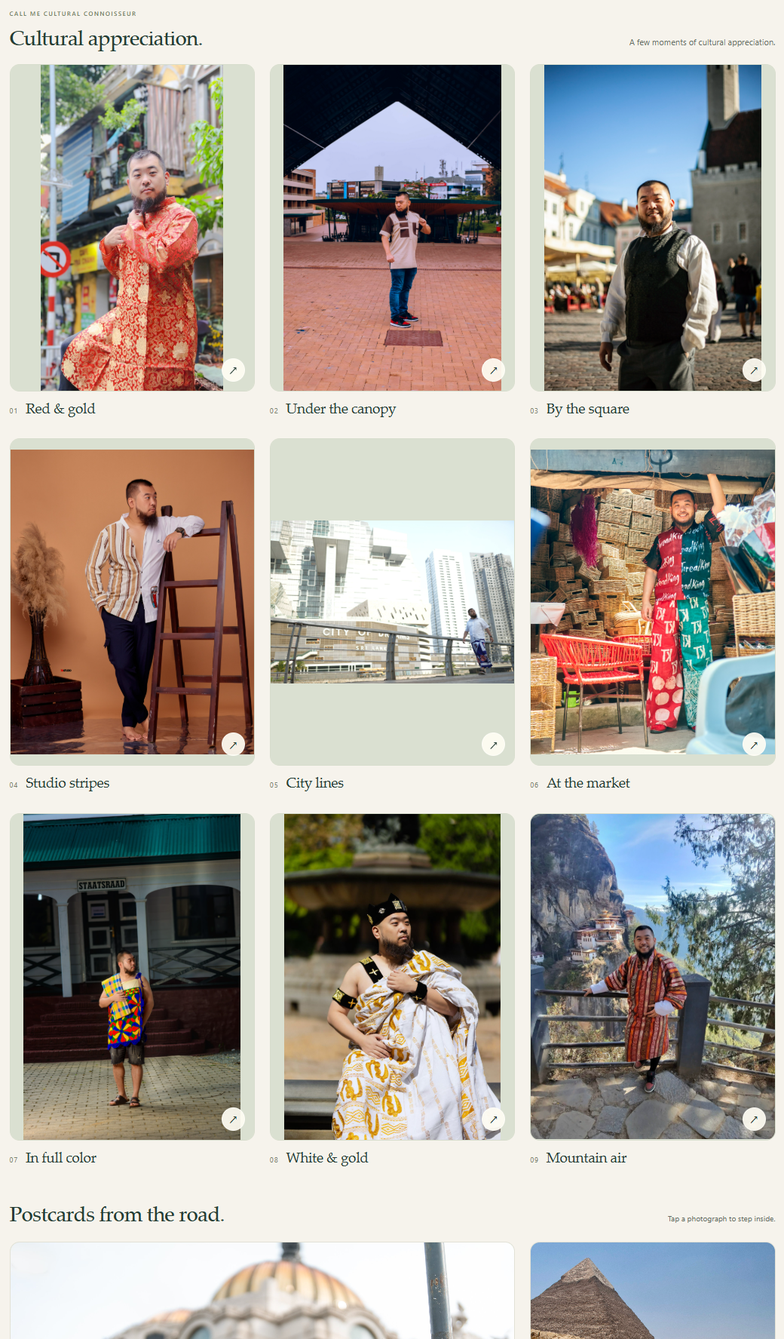
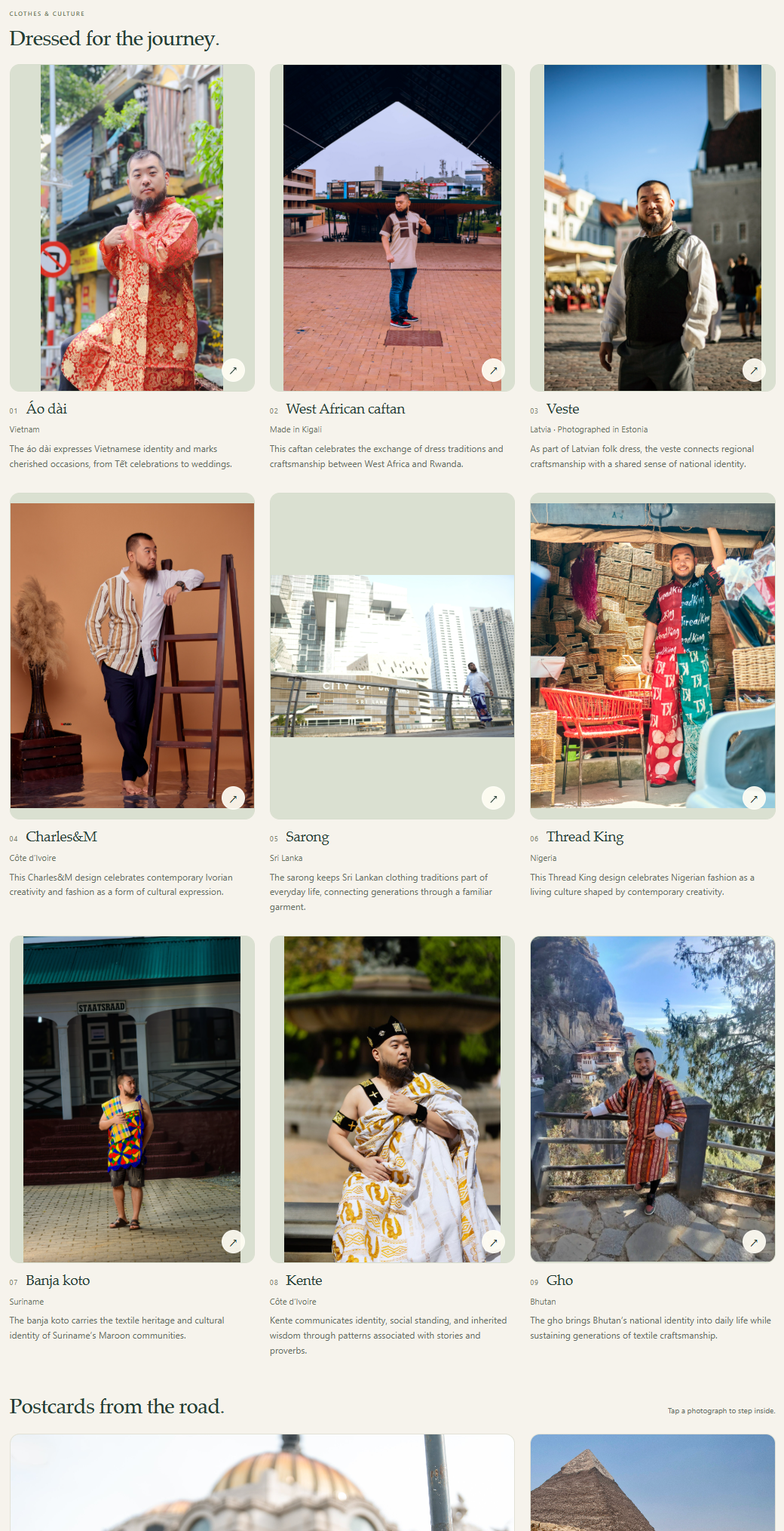
Add approved clothing captions and Dressed for the journey heading

diff --git a/index.html b/index.html
@@ -100,53 +100,53 @@
 </div>
 <div class="latest-stops"><span class="eyebrow">Latest additions</span><div id="latest-stops-list"><span>Estonia</span><span>Latvia</span><span>Lithuania</span></div><span class="stops-date" id="latest-stops-date">August 2026</span></div>
 <section class="culture-section" id="culture" aria-labelledby="culture-title">
-<div class="culture-heading"><div><p class="eyebrow" id="culture-eyebrow">Call me cultural connoisseur</p><h3 id="culture-title">Cultural appreciation.</h3></div><p id="culture-description">A few moments of cultural appreciation.</p></div>
+<div class="culture-heading"><div><p class="eyebrow" id="culture-eyebrow">Clothes &amp; culture</p><h3 id="culture-title">Dressed for the journey.</h3></div><p id="culture-description" hidden></p></div>
 <div class="culture-grid" id="culture-photos">
 <figure class="culture-card">
-<a class="culture-open" href="assets/culture/cultural-appreciation-01.jpg" rel="noopener noreferrer" target="_blank" aria-label="Open Red &amp; gold">
-<span class="culture-image image-frame"><span aria-hidden="true" class="image-placeholder">01</span><img alt="JiaJie in a red and gold embroidered tunic on a leafy street." decoding="async" height="2560" loading="lazy" src="assets/culture/cultural-appreciation-01.jpg" width="1437"/><span aria-hidden="true" class="photo-expand">↗</span></span>
-<span class="culture-caption"><span class="culture-index">01</span><strong>Red &amp; gold</strong></span>
-</a></figure>
+<a class="culture-open" href="assets/culture/cultural-appreciation-01.jpg" rel="noopener noreferrer" target="_blank" aria-label="Open Áo dài · Vietnam">
+<span class="culture-image image-frame"><span aria-hidden="true" class="image-placeholder">01</span><img alt="JiaJie in a red and gold áo dài on a leafy street." decoding="async" height="2560" loading="lazy" src="assets/culture/cultural-appreciation-01.jpg" width="1437"/><span aria-hidden="true" class="photo-expand">↗</span></span>
+<span class="culture-caption"><span class="culture-index" aria-hidden="true">01</span><strong>Áo dài</strong></span>
+</a><figcaption class="culture-details"><p class="culture-location">Vietnam</p><p class="culture-description">The áo dài expresses Vietnamese identity and marks cherished occasions, from Tết celebrations to weddings.</p></figcaption></figure>
 <figure class="culture-card">
-<a class="culture-open" href="assets/culture/cultural-appreciation-02.jpg" rel="noopener noreferrer" target="_blank" aria-label="Open Under the canopy">
-<span class="culture-image image-frame"><span aria-hidden="true" class="image-placeholder">02</span><img alt="JiaJie in a geometric-patterned shirt beneath a large canopy in an open square." decoding="async" height="3746" loading="lazy" src="assets/culture/cultural-appreciation-02.jpg" width="2500"/><span aria-hidden="true" class="photo-expand">↗</span></span>
-<span class="culture-caption"><span class="culture-index">02</span><strong>Under the canopy</strong></span>
-</a></figure>
+<a class="culture-open" href="assets/culture/cultural-appreciation-02.jpg" rel="noopener noreferrer" target="_blank" aria-label="Open West African caftan · Made in Kigali">
+<span class="culture-image image-frame"><span aria-hidden="true" class="image-placeholder">02</span><img alt="JiaJie in a geometric-patterned West African caftan beneath a large canopy in an open square." decoding="async" height="3746" loading="lazy" src="assets/culture/cultural-appreciation-02.jpg" width="2500"/><span aria-hidden="true" class="photo-expand">↗</span></span>
+<span class="culture-caption"><span class="culture-index" aria-hidden="true">02</span><strong>West African caftan</strong></span>
+</a><figcaption class="culture-details"><p class="culture-location">Made in Kigali</p><p class="culture-description">This caftan celebrates the exchange of dress traditions and craftsmanship between West Africa and Rwanda.</p></figcaption></figure>
 <figure class="culture-card">
-<a class="culture-open" href="assets/culture/cultural-appreciation-03.jpg" rel="noopener noreferrer" target="_blank" aria-label="Open By the square">
-<span class="culture-image image-frame"><span aria-hidden="true" class="image-placeholder">03</span><img alt="JiaJie in a dark waistcoat and light shirt in a sunlit cobbled square." decoding="async" height="3750" loading="lazy" src="assets/culture/cultural-appreciation-03.jpg" width="2500"/><span aria-hidden="true" class="photo-expand">↗</span></span>
-<span class="culture-caption"><span class="culture-index">03</span><strong>By the square</strong></span>
-</a></figure>
+<a class="culture-open" href="assets/culture/cultural-appreciation-03.jpg" rel="noopener noreferrer" target="_blank" aria-label="Open Veste · Latvia · Photographed in Estonia">
+<span class="culture-image image-frame"><span aria-hidden="true" class="image-placeholder">03</span><img alt="JiaJie in a dark Latvian veste and light shirt in a sunlit cobbled square in Estonia." decoding="async" height="3750" loading="lazy" src="assets/culture/cultural-appreciation-03.jpg" width="2500"/><span aria-hidden="true" class="photo-expand">↗</span></span>
+<span class="culture-caption"><span class="culture-index" aria-hidden="true">03</span><strong>Veste</strong></span>
+</a><figcaption class="culture-details"><p class="culture-location">Latvia · Photographed in Estonia</p><p class="culture-description">As part of Latvian folk dress, the veste connects regional craftsmanship with a shared sense of national identity.</p></figcaption></figure>
 <figure class="culture-card">
-<a class="culture-open" href="assets/culture/cultural-appreciation-04.jpg" rel="noopener noreferrer" target="_blank" aria-label="Open Studio stripes">
-<span class="culture-image image-frame"><span aria-hidden="true" class="image-placeholder">04</span><img alt="JiaJie in a striped waistcoat over a white shirt, leaning on a wooden ladder in a studio." decoding="async" height="3125" loading="lazy" src="assets/culture/cultural-appreciation-04.jpg" width="2500"/><span aria-hidden="true" class="photo-expand">↗</span></span>
-<span class="culture-caption"><span class="culture-index">04</span><strong>Studio stripes</strong></span>
-</a></figure>
+<a class="culture-open" href="assets/culture/cultural-appreciation-04.jpg" rel="noopener noreferrer" target="_blank" aria-label="Open Charles&amp;M · Côte d’Ivoire">
+<span class="culture-image image-frame"><span aria-hidden="true" class="image-placeholder">04</span><img alt="JiaJie in a white and striped Charles&amp;M outfit, leaning on a wooden ladder in a studio." decoding="async" height="3125" loading="lazy" src="assets/culture/cultural-appreciation-04.jpg" width="2500"/><span aria-hidden="true" class="photo-expand">↗</span></span>
+<span class="culture-caption"><span class="culture-index" aria-hidden="true">04</span><strong>Charles&amp;M</strong></span>
+</a><figcaption class="culture-details"><p class="culture-location">Côte d’Ivoire</p><p class="culture-description">This Charles&amp;M design celebrates contemporary Ivorian creativity and fashion as a form of cultural expression.</p></figcaption></figure>
 <figure class="culture-card">
-<a class="culture-open" href="assets/culture/cultural-appreciation-05.jpg" rel="noopener noreferrer" target="_blank" aria-label="Open City lines">
-<span class="culture-image image-frame"><span aria-hidden="true" class="image-placeholder">05</span><img alt="JiaJie in a white shirt and patterned trousers beside a railing, with contemporary buildings behind him." decoding="async" height="1667" loading="lazy" src="assets/culture/cultural-appreciation-05.jpg" width="2500"/><span aria-hidden="true" class="photo-expand">↗</span></span>
-<span class="culture-caption"><span class="culture-index">05</span><strong>City lines</strong></span>
-</a></figure>
+<a class="culture-open" href="assets/culture/cultural-appreciation-05.jpg" rel="noopener noreferrer" target="_blank" aria-label="Open Sarong · Sri Lanka">
+<span class="culture-image image-frame"><span aria-hidden="true" class="image-placeholder">05</span><img alt="JiaJie in a white shirt and patterned sarong beside a railing, with contemporary buildings behind him." decoding="async" height="1667" loading="lazy" src="assets/culture/cultural-appreciation-05.jpg" width="2500"/><span aria-hidden="true" class="photo-expand">↗</span></span>
+<span class="culture-caption"><span class="culture-index" aria-hidden="true">05</span><strong>Sarong</strong></span>
+</a><figcaption class="culture-details"><p class="culture-location">Sri Lanka</p><p class="culture-description">The sarong keeps Sri Lankan clothing traditions part of everyday life, connecting generations through a familiar garment.</p></figcaption></figure>
 <figure class="culture-card">
-<a class="culture-open" href="assets/culture/cultural-appreciation-06.jpg" rel="noopener noreferrer" target="_blank" aria-label="Open At the market">
-<span class="culture-image image-frame"><span aria-hidden="true" class="image-placeholder">06</span><img alt="JiaJie in a colorful matching shirt and trousers at a stall filled with woven baskets." decoding="async" height="3125" loading="lazy" src="assets/culture/cultural-appreciation-06.jpg" width="2500"/><span aria-hidden="true" class="photo-expand">↗</span></span>
-<span class="culture-caption"><span class="culture-index">06</span><strong>At the market</strong></span>
-</a></figure>
+<a class="culture-open" href="assets/culture/cultural-appreciation-06.jpg" rel="noopener noreferrer" target="_blank" aria-label="Open Thread King · Nigeria">
+<span class="culture-image image-frame"><span aria-hidden="true" class="image-placeholder">06</span><img alt="JiaJie in a colorful matching Thread King shirt and trousers at a stall filled with woven baskets." decoding="async" height="3125" loading="lazy" src="assets/culture/cultural-appreciation-06.jpg" width="2500"/><span aria-hidden="true" class="photo-expand">↗</span></span>
+<span class="culture-caption"><span class="culture-index" aria-hidden="true">06</span><strong>Thread King</strong></span>
+</a><figcaption class="culture-details"><p class="culture-location">Nigeria</p><p class="culture-description">This Thread King design celebrates Nigerian fashion as a living culture shaped by contemporary creativity.</p></figcaption></figure>
 <figure class="culture-card">
-<a class="culture-open" href="assets/culture/cultural-appreciation-07.jpg" rel="noopener noreferrer" target="_blank" aria-label="Open In full color">
-<span class="culture-image image-frame"><span aria-hidden="true" class="image-placeholder">07</span><img alt="JiaJie in a bright geometric-patterned sleeveless top beside the steps of a building." decoding="async" height="3750" loading="lazy" src="assets/culture/cultural-appreciation-07.jpg" width="2500"/><span aria-hidden="true" class="photo-expand">↗</span></span>
-<span class="culture-caption"><span class="culture-index">07</span><strong>In full color</strong></span>
-</a></figure>
+<a class="culture-open" href="assets/culture/cultural-appreciation-07.jpg" rel="noopener noreferrer" target="_blank" aria-label="Open Banja koto · Suriname">
+<span class="culture-image image-frame"><span aria-hidden="true" class="image-placeholder">07</span><img alt="JiaJie in a bright geometric-patterned banja koto beside the steps of a building." decoding="async" height="3750" loading="lazy" src="assets/culture/cultural-appreciation-07.jpg" width="2500"/><span aria-hidden="true" class="photo-expand">↗</span></span>
+<span class="culture-caption"><span class="culture-index" aria-hidden="true">07</span><strong>Banja koto</strong></span>
+</a><figcaption class="culture-details"><p class="culture-location">Suriname</p><p class="culture-description">The banja koto carries the textile heritage and cultural identity of Suriname’s Maroon communities.</p></figcaption></figure>
 <figure class="culture-card">
-<a class="culture-open" href="assets/culture/cultural-appreciation-08.jpg" rel="noopener noreferrer" target="_blank" aria-label="Open White &amp; gold">
-<span class="culture-image image-frame"><span aria-hidden="true" class="image-placeholder">08</span><img alt="JiaJie in a white and gold draped outfit and black hat in a garden." decoding="async" height="1536" loading="lazy" src="assets/culture/cultural-appreciation-08.jpg" width="1024"/><span aria-hidden="true" class="photo-expand">↗</span></span>
-<span class="culture-caption"><span class="culture-index">08</span><strong>White &amp; gold</strong></span>
-</a></figure>
+<a class="culture-open" href="assets/culture/cultural-appreciation-08.jpg" rel="noopener noreferrer" target="_blank" aria-label="Open Kente · Côte d’Ivoire">
+<span class="culture-image image-frame"><span aria-hidden="true" class="image-placeholder">08</span><img alt="JiaJie in white and gold kente cloth and a black hat in a garden." decoding="async" height="1536" loading="lazy" src="assets/culture/cultural-appreciation-08.jpg" width="1024"/><span aria-hidden="true" class="photo-expand">↗</span></span>
+<span class="culture-caption"><span class="culture-index" aria-hidden="true">08</span><strong>Kente</strong></span>
+</a><figcaption class="culture-details"><p class="culture-location">Côte d’Ivoire</p><p class="culture-description">Kente communicates identity, social standing, and inherited wisdom through patterns associated with stories and proverbs.</p></figcaption></figure>
 <figure class="culture-card">
-<a class="culture-open" href="assets/culture/cultural-appreciation-09.jpg" rel="noopener noreferrer" target="_blank" aria-label="Open Mountain air">
-<span class="culture-image image-frame"><span aria-hidden="true" class="image-placeholder">09</span><img alt="JiaJie in a striped robe by a mountain overlook, with buildings on the cliff behind him." decoding="async" height="3334" loading="lazy" src="assets/culture/cultural-appreciation-09.jpg" width="2500"/><span aria-hidden="true" class="photo-expand">↗</span></span>
-<span class="culture-caption"><span class="culture-index">09</span><strong>Mountain air</strong></span>
-</a></figure>
+<a class="culture-open" href="assets/culture/cultural-appreciation-09.jpg" rel="noopener noreferrer" target="_blank" aria-label="Open Gho · Bhutan">
+<span class="culture-image image-frame"><span aria-hidden="true" class="image-placeholder">09</span><img alt="JiaJie in a striped gho by a mountain overlook in Bhutan, with buildings on the cliff behind him." decoding="async" height="3334" loading="lazy" src="assets/culture/cultural-appreciation-09.jpg" width="2500"/><span aria-hidden="true" class="photo-expand">↗</span></span>
+<span class="culture-caption"><span class="culture-index" aria-hidden="true">09</span><strong>Gho</strong></span>
+</a><figcaption class="culture-details"><p class="culture-location">Bhutan</p><p class="culture-description">The gho brings Bhutan’s national identity into daily life while sustaining generations of textile craftsmanship.</p></figcaption></figure>
 </div></section>
 <div class="postcards-heading"><h3>Postcards from the road.</h3><span>Tap a photograph to step inside.</span></div>
 <div class="postcards-grid" id="travel-photos"><figure class="postcard postcard-wide"><a class="postcard-open" href="assets/postcards/mexico-city.jpg" rel="noopener noreferrer" target="_blank"><span class="postcard-image image-frame"><span aria-hidden="true" class="image-placeholder">Mexico City</span><img alt="Travel portrait in Mexico City, with the Palacio de Bellas Artes in the background." decoding="async" height="667" loading="lazy" src="assets/postcards/mexico-city.jpg" width="1000"/><span aria-hidden="true" class="photo-expand">↗</span></span><span class="postcard-caption"><strong>Mexico City, Mexico</strong><span>December 2024</span></span></a><figcaption class="photo-credit">Photo: <a href="https://www.instagram.com/fotografia_beauty_art/" rel="noopener noreferrer" target="_blank">@fotografia_beauty_art</a></figcaption></figure><figure class="postcard"><a class="postcard-open" href="assets/postcards/cairo.jpg" rel="noopener noreferrer" target="_blank"><span class="postcard-image image-frame"><span aria-hidden="true" class="image-placeholder">Cairo</span><img alt="Travel photograph near a pyramid in Egypt." decoding="async" height="1000" loading="lazy" src="assets/postcards/cairo.jpg" width="667"/><span aria-hidden="true" class="photo-expand">↗</span></span><span class="postcard-caption"><strong>Cairo, Egypt</strong><span>September 2024</span></span></a></figure><figure class="postcard"><a class="postcard-open" href="assets/postcards/paris.jpg" rel="noopener noreferrer" target="_blank"><span class="postcard-image image-frame"><span aria-hidden="true" class="image-placeholder">Paris</span><img alt="Travel portrait beside the Louvre pyramid in Paris." decoding="async" height="1000" loading="lazy" src="assets/postcards/paris.jpg" width="800"/><span aria-hidden="true" class="photo-expand">↗</span></span><span class="postcard-caption"><strong>Paris, France</strong><span>September 2022</span></span></a><figcaption class="photo-credit">Photo: <a href="https://www.instagram.com/fotografaemparis.jb/" rel="noopener noreferrer" target="_blank">@fotografaemparis.jb</a></figcaption></figure><figure class="postcard"><a class="postcard-open" href="assets/postcards/prague.jpg" rel="noopener noreferrer" target="_blank"><span class="postcard-image image-frame"><span aria-hidden="true" class="image-placeholder">Prague</span><img alt="Travel portrait on a cobbled street in Prague." decoding="async" height="1000" loading="lazy" src="assets/postcards/prague.jpg" width="667"/><span aria-hidden="true" class="photo-expand">↗</span></span><span class="postcard-caption"><strong>Prague, Czech Republic</strong><span>July 2024</span></span></a><figcaption class="photo-credit">Photo: <a href="https://www.instagram.com/pragueful/" rel="noopener noreferrer" target="_blank">@pragueful</a></figcaption></figure><figure class="postcard"><a class="postcard-open" href="assets/postcards/mombasa.jpg" rel="noopener noreferrer" target="_blank"><span class="postcard-image image-frame"><span aria-hidden="true" class="image-placeholder">Mombasa</span><img alt="Travel photograph on a sunny street in Mombasa." decoding="async" height="1000" loading="lazy" src="assets/postcards/mombasa.jpg" width="753"/><span aria-hidden="true" class="photo-expand">↗</span></span><span class="postcard-caption"><strong>Mombasa, Kenya</strong><span>November 2024</span></span></a></figure><figure class="postcard"><a class="postcard-open" href="assets/postcards/istanbul.jpg" rel="noopener noreferrer" target="_blank"><span class="postcard-image image-frame"><span aria-hidden="true" class="image-placeholder">Istanbul</span><img alt="Travel portrait by the waterfront in Istanbul." decoding="async" height="1000" loading="lazy" src="assets/postcards/istanbul.jpg" width="667"/><span aria-hidden="true" class="photo-expand">↗</span></span><span class="postcard-caption"><strong>Istanbul, Turkey</strong><span>August 2024</span></span></a></figure><figure class="postcard"><a class="postcard-open" href="assets/postcards/venice.jpg" rel="noopener noreferrer" target="_blank"><span class="postcard-image image-frame"><span aria-hidden="true" class="image-placeholder">Venice</span><img alt="Travel portrait beside a canal and bridge in Venice." decoding="async" height="1000" loading="lazy" src="assets/postcards/venice.jpg" width="667"/><span aria-hidden="true" class="photo-expand">↗</span></span><span class="postcard-caption"><strong>Venice, Italy</strong><span>July 2024</span></span></a></figure><figure class="postcard"><a class="postcard-open" href="assets/postcards/singapore.jpg" rel="noopener noreferrer" target="_blank"><span class="postcard-image image-frame"><span aria-hidden="true" class="image-placeholder">Singapore</span><img alt="Travel portrait beneath the Supertrees in Singapore." decoding="async" height="1000" loading="lazy" src="assets/postcards/singapore.jpg" width="667"/><span aria-hidden="true" class="photo-expand">↗</span></span><span class="postcard-caption"><strong>Singapore</strong><span>October 2024</span></span></a></figure></div>
@@ -193,7 +193,7 @@
 <div class="dialog-toolbar"><span class="eyebrow"><span aria-hidden="true" class="room-dot"></span><span id="gallery-eyebrow">The photo journal</span></span><button aria-label="Close photo gallery" autofocus="" class="icon-button" id="close-gallery" type="button"><svg aria-hidden="true" class="icon" fill="none" stroke="currentColor" stroke-linecap="round" stroke-width="1.7" viewbox="0 0 24 24"><path d="m6 6 12 12M18 6 6 18"></path></svg></button></div>
 <div class="gallery-body">
 <div class="gallery-heading"><div><h2 id="gallery-title">Postcards from the road</h2><p id="gallery-subtitle"></p></div><span aria-live="polite" class="gallery-count" id="gallery-count"></span></div>
-<figure class="gallery-figure"><div class="gallery-stage" id="gallery-stage"><img alt="" id="gallery-image"/><p hidden="" id="gallery-image-error">This photo couldn’t load. Try opening the original below.</p></div><figcaption class="gallery-caption"><div><strong id="gallery-photo-title"></strong><p id="gallery-photo-caption"></p><a hidden="" id="gallery-credit" rel="noopener noreferrer" target="_blank"></a></div><div class="gallery-controls"><button aria-label="Previous photograph" class="icon-button" id="gallery-prev" type="button">←</button><button aria-label="Next photograph" class="icon-button" id="gallery-next" type="button">→</button></div></figcaption></figure>
+<figure class="gallery-figure"><div class="gallery-stage" id="gallery-stage"><img alt="" id="gallery-image"/><p hidden="" id="gallery-image-error">This photo couldn’t load. Try opening the original below.</p></div><figcaption class="gallery-caption"><div><strong id="gallery-photo-title"></strong><p id="gallery-photo-location" hidden></p><p id="gallery-photo-caption"></p><a hidden="" id="gallery-credit" rel="noopener noreferrer" target="_blank"></a></div><div class="gallery-controls"><button aria-label="Previous photograph" class="icon-button" id="gallery-prev" type="button">←</button><button aria-label="Next photograph" class="icon-button" id="gallery-next" type="button">→</button></div></figcaption></figure>
 <div aria-label="Choose a photograph" class="gallery-thumbnails" hidden="" id="gallery-thumbnails"></div>
 <div class="gallery-image-actions"><a id="gallery-original" rel="noopener noreferrer" target="_blank">Open full-size photograph <span aria-hidden="true">↗</span></a><span id="gallery-key-hint">Use the arrows or swipe to explore.</span></div>
 <section aria-labelledby="project-details-title" class="project-details" hidden="" id="project-details"><div class="project-details-intro"><div><p class="eyebrow">The story</p><h3 id="project-details-title">Boys Like Us · Season 2</h3></div><span class="detail-status" id="detail-status">Upcoming</span></div><p id="project-description"></p><p id="project-personal-note"></p><dl class="project-facts"><div><dt>My role</dt><dd id="detail-role"></dd></div><div><dt>Format</dt><dd id="detail-format"></dd></div><div><dt>Release</dt><dd id="detail-release"></dd></div></dl><div class="project-destinations" id="project-destinations"><a class="hello-button" id="project-updates" rel="noopener noreferrer" target="_blank">Updates on my Instagram <span aria-hidden="true">↗</span></a><a class="quiet-button" hidden="" id="project-trailer" rel="noopener noreferrer" target="_blank">Watch the trailer ↗</a><a class="quiet-button" hidden="" id="project-watch" rel="noopener noreferrer" target="_blank">Watch the series ↗</a><button class="copy-song" id="copy-project" type="button">Copy project link ↗</button></div></section>

diff --git a/site-config.js b/site-config.js
@@ -112,81 +112,99 @@ window.JIAJIE_SITE = {
     ]
   },
   "culture": {
-    "title": "Cultural appreciation.",
-    "eyebrow": "Call me cultural connoisseur",
-    "description": "A few moments of cultural appreciation.",
+    "title": "Dressed for the journey.",
+    "eyebrow": "Clothes & culture",
+    "description": "",
     "photos": [
       {
         "id": "culture-01",
         "src": "assets/culture/cultural-appreciation-01.jpg",
         "width": 1437,
         "height": 2560,
-        "title": "Red & gold",
-        "alt": "JiaJie in a red and gold embroidered tunic on a leafy street."
+        "title": "Áo dài",
+        "alt": "JiaJie in a red and gold áo dài on a leafy street.",
+        "location": "Vietnam",
+        "caption": "The áo dài expresses Vietnamese identity and marks cherished occasions, from Tết celebrations to weddings."
       },
       {
         "id": "culture-02",
         "src": "assets/culture/cultural-appreciation-02.jpg",
         "width": 2500,
         "height": 3746,
-        "title": "Under the canopy",
-        "alt": "JiaJie in a geometric-patterned shirt beneath a large canopy in an open square."
+        "title": "West African caftan",
+        "alt": "JiaJie in a geometric-patterned West African caftan beneath a large canopy in an open square.",
+        "location": "Made in Kigali",
+        "caption": "This caftan celebrates the exchange of dress traditions and craftsmanship between West Africa and Rwanda."
       },
       {
         "id": "culture-03",
         "src": "assets/culture/cultural-appreciation-03.jpg",
         "width": 2500,
         "height": 3750,
-        "title": "By the square",
-        "alt": "JiaJie in a dark waistcoat and light shirt in a sunlit cobbled square."
+        "title": "Veste",
+        "alt": "JiaJie in a dark Latvian veste and light shirt in a sunlit cobbled square in Estonia.",
+        "location": "Latvia · Photographed in Estonia",
+        "caption": "As part of Latvian folk dress, the veste connects regional craftsmanship with a shared sense of national identity."
       },
       {
         "id": "culture-04",
         "src": "assets/culture/cultural-appreciation-04.jpg",
         "width": 2500,
         "height": 3125,
-        "title": "Studio stripes",
-        "alt": "JiaJie in a striped waistcoat over a white shirt, leaning on a wooden ladder in a studio."
+        "title": "Charles&M",
+        "alt": "JiaJie in a white and striped Charles&M outfit, leaning on a wooden ladder in a studio.",
+        "location": "Côte d’Ivoire",
+        "caption": "This Charles&M design celebrates contemporary Ivorian creativity and fashion as a form of cultural expression."
       },
       {
         "id": "culture-05",
         "src": "assets/culture/cultural-appreciation-05.jpg",
         "width": 2500,
         "height": 1667,
-        "title": "City lines",
-        "alt": "JiaJie in a white shirt and patterned trousers beside a railing, with contemporary buildings behind him."
+        "title": "Sarong",
+        "alt": "JiaJie in a white shirt and patterned sarong beside a railing, with contemporary buildings behind him.",
+        "location": "Sri Lanka",
+        "caption": "The sarong keeps Sri Lankan clothing traditions part of everyday life, connecting generations through a familiar garment."
       },
       {
         "id": "culture-06",
         "src": "assets/culture/cultural-appreciation-06.jpg",
         "width": 2500,
         "height": 3125,
-        "title": "At the market",
-        "alt": "JiaJie in a colorful matching shirt and trousers at a stall filled with woven baskets."
+        "title": "Thread King",
+        "alt": "JiaJie in a colorful matching Thread King shirt and trousers at a stall filled with woven baskets.",
+        "location": "Nigeria",
+        "caption": "This Thread King design celebrates Nigerian fashion as a living culture shaped by contemporary creativity."
       },
       {
         "id": "culture-07",
         "src": "assets/culture/cultural-appreciation-07.jpg",
         "width": 2500,
         "height": 3750,
-        "title": "In full color",
-        "alt": "JiaJie in a bright geometric-patterned sleeveless top beside the steps of a building."
+        "title": "Banja koto",
+        "alt": "JiaJie in a bright geometric-patterned banja koto beside the steps of a building.",
+        "location": "Suriname",
+        "caption": "The banja koto carries the textile heritage and cultural identity of Suriname’s Maroon communities."
       },
       {
         "id": "culture-08",
         "src": "assets/culture/cultural-appreciation-08.jpg",
         "width": 1024,
         "height": 1536,
-        "title": "White & gold",
-        "alt": "JiaJie in a white and gold draped outfit and black hat in a garden."
+        "title": "Kente",
+        "alt": "JiaJie in white and gold kente cloth and a black hat in a garden.",
+        "location": "Côte d’Ivoire",
+        "caption": "Kente communicates identity, social standing, and inherited wisdom through patterns associated with stories and proverbs."
       },
       {
         "id": "culture-09",
         "src": "assets/culture/cultural-appreciation-09.jpg",
         "width": 2500,
         "height": 3334,
-        "title": "Mountain air",
-        "alt": "JiaJie in a striped robe by a mountain overlook, with buildings on the cliff behind him."
+        "title": "Gho",
+        "alt": "JiaJie in a striped gho by a mountain overlook in Bhutan, with buildings on the cliff behind him.",
+        "location": "Bhutan",
+        "caption": "The gho brings Bhutan’s national identity into daily life while sustaining generations of textile craftsmanship."
       }
     ]
   },

diff --git a/app.js b/app.js
@@ -419,6 +419,8 @@
     $("#gallery-image-error").hidden = true;
     setImage($("#gallery-image"), photo.src, photo.alt || photo.title || "Photograph");
     setText("#gallery-photo-title", photo.title || "");
+    setText("#gallery-photo-location", mode === "culture" ? photo.location : "");
+    $("#gallery-photo-location").hidden = mode !== "culture" || !photo.location;
     setText("#gallery-photo-caption", photo.caption || photo.date || "");
     setText("#gallery-count", `${index + 1} / ${items.length}`);
     $("#gallery-count").hidden = items.length < 2;
@@ -458,13 +460,14 @@
     const headings = {
       project: ["Behind the scenes", project.title, [project.season, project.format, project.location].filter(Boolean).join(" · ")],
       map: ["The places so far", travel.map?.title, `As of ${travel.asOf || ""} · ${travel.qualifier || ""}`],
-      culture: [culture.eyebrow || "Call me cultural connoisseur", culture.title || "Cultural appreciation.", culture.description || "A few moments of cultural appreciation."],
+      culture: [culture.eyebrow || "Clothes & culture", culture.title || "Dressed for the journey.", culture.description || ""],
       travel: ["The photo journal", "Postcards from the road", "A few moments, from a world of places."]
     };
     const [eyebrow, title, subtitle] = headings[mode] || headings.travel;
     setText("#gallery-eyebrow", eyebrow);
     setText("#gallery-title", title);
     setText("#gallery-subtitle", subtitle);
+    $("#gallery-subtitle").hidden = !subtitle;
     $("#project-details").hidden = mode !== "project";
     const thumbnails = $("#gallery-thumbnails");
     thumbnails.replaceChildren();
@@ -560,7 +563,7 @@
     const link = outgoingLink(imageURL(photo.src), undefined, "culture-open");
     link.setAttribute("aria-haspopup", "dialog");
     link.setAttribute("aria-controls", "gallery-dialog");
-    link.setAttribute("aria-label", `View ${title} (${index + 1} of ${culturePhotos.length})`);
+    link.setAttribute("aria-label", `View ${[title, photo.location].filter(Boolean).join(" · ")} (${index + 1} of ${culturePhotos.length})`);
     const frame = element("span", "culture-image image-frame");
     const number = String(index + 1).padStart(2, "0");
     const placeholder = element("span", "image-placeholder", number);
@@ -582,19 +585,24 @@
       if (openGallery(culturePhotos, index, "culture", link)) event.preventDefault();
     });
     figure.append(link);
+    const details = element("figcaption", "culture-details");
+    if (photo.location) details.append(element("p", "culture-location", photo.location));
+    if (photo.caption) details.append(element("p", "culture-description", photo.caption));
     if (photo.credit) {
-      const credit = element("figcaption", "photo-credit", "Photo: ");
+      const credit = element("p", "photo-credit", "Photo: ");
       const url = webURL(photo.creditUrl);
       credit.append(url ? outgoingLink(url, photo.credit) : element("span", "", photo.credit));
-      figure.append(credit);
+      details.append(credit);
     }
+    if (details.hasChildNodes()) figure.append(details);
     return figure;
   }
   const cultureGrid = $("#culture-photos");
   if (cultureGrid && culturePhotos.length) {
-    setText("#culture-eyebrow", culture.eyebrow || "Call me cultural connoisseur");
-    setText("#culture-title", culture.title || "Cultural appreciation.");
-    setText("#culture-description", culture.description || "A few moments of cultural appreciation.");
+    setText("#culture-eyebrow", culture.eyebrow || "Clothes & culture");
+    setText("#culture-title", culture.title || "Dressed for the journey.");
+    setText("#culture-description", culture.description || "");
+    $("#culture-description").hidden = !culture.description;
     cultureGrid.replaceChildren(...culturePhotos.map(makeCultureCard));
   }
 

diff --git a/scroll.css b/scroll.css
@@ -75,6 +75,9 @@ html { scroll-behavior: smooth; scroll-padding-top: 118px; }
 .culture-caption { display: flex; align-items: baseline; gap: 10px; margin-top: 11px; }
 .culture-index { flex-shrink: 0; color: #7b856e; font-size: 9px; letter-spacing: 1px; font-variant-numeric: tabular-nums; }
 .culture-caption strong { font: 19px/1.25 var(--serif); letter-spacing: -.35px; overflow-wrap: anywhere; }
+.culture-details { margin-top: 7px; }
+.culture-location { margin: 0; color: #69715e; font-size: 11px; line-height: 1.6; }
+.culture-description { margin: 7px 0 0; color: var(--muted); font-size: 12px; line-height: 1.65; }
 .postcards-heading { display: flex; justify-content: space-between; align-items: baseline; flex-wrap: wrap; gap: 10px; margin: 44px 0 19px; }
 .postcards-heading h3 { font: 28px var(--serif); margin: 0; letter-spacing: -.8px; }
 .postcards-heading > span { font-size: 10px; color: var(--muted); }
@@ -149,10 +152,12 @@ html { scroll-behavior: smooth; scroll-padding-top: 118px; }
 .gallery-stage img { width: 100%; height: 100%; min-height: 0; object-fit: contain; }
 #gallery-image-error { position: absolute; padding: 24px; color: #dfdfc9; font-size: 13px; text-align: center; }
 .gallery-caption { display: flex; justify-content: space-between; gap: 20px; align-items: flex-start; margin-top: 18px; }
+.gallery-caption > div:first-child { min-width: 0; }
 .gallery-caption strong { display: block; font: 23px var(--serif); letter-spacing: -.4px; }
 .gallery-caption p { font-size: 11px; color: #6d755f; margin: 6px 0 0; line-height: 1.7; }
 #gallery-credit { font-size: 10px; color: #627a52; display: inline-block; margin-top: 5px; text-decoration: underline; text-underline-offset: 3px; }
-.gallery-controls { display: flex; gap: 7px; }
+.gallery-controls { display: flex; flex-shrink: 0; gap: 7px; }
+.gallery-dialog.is-culture #gallery-photo-caption { font-size: 13px; }
 .gallery-controls .icon-button { width: 39px; height: 39px; font-size: 18px; border: 1px solid #d9dfcc; background: #f6f6ec; }
 .gallery-controls .icon-button:hover { background: #e2e9d6; }
 .gallery-thumbnails { display: grid; grid-template-columns: repeat(3,minmax(0,1fr)); gap: 13px; margin-top: 22px; }

diff --git a/SOURCES.md b/SOURCES.md
@@ -8,7 +8,7 @@ https://www.geniusye.com/bodypositive
 
 All previously remote photographs, the travel map, and music artwork are now bundled in `assets/profile/`, `assets/postcards/`, `assets/music/`, and `assets/bodypositive/`. Production photographs and their thumbnails are in `assets/movie/`. These source links record provenance; the site does not load images from the former hosts.
 
-The nine photographs under “Call me cultural connoisseur” on the original homepage were copied into `assets/culture/cultural-appreciation-01.jpg` through `cultural-appreciation-09.jpg` in source order. The section is now titled “Cultural appreciation.” The source had no photo captions, dates, or photographer credits for this collection; the new brief titles and accessible descriptions describe visible clothing and settings, without assigning cultures or locations. The original image responses are preserved without recompression; the page and photo viewer load only these local copies.
+The nine photographs under “Call me cultural connoisseur” on the original homepage were copied into `assets/culture/cultural-appreciation-01.jpg` through `cultural-appreciation-09.jpg` in source order. The section is now titled “Dressed for the journey.” The owner supplied the garment names, makers, and places, including a West African caftan made in Kigali and a Latvian veste photographed in Estonia, and approved the nine one-sentence captions about cultural significance. Accessible image descriptions use those identifications alongside visible clothing and settings. No photo dates or photographer credits were supplied. The original image responses are preserved without recompression; the page and photo viewer load only these local copies.
 
 Photo groups: opening portrait (no explicit photographer attribution recovered); three photographs credited to @reaux_woods; Baltimore, July 2022, @unix.jpg; Miami Beach, May 2022, @kearnyrivero; Greensboro, September 2021, @lostfilmsphotography_llc; Miami, May 2021, @kearnyrivero; Atlanta, March and July 2020, @derrick_lejermon. A source caption does not establish any other personal characteristic.
 
@@ -18,3 +18,17 @@ The content-warning page is new copy; the gallery introduction is a light rewrit
 
 Cloudflare deployment reference:
 https://developers.cloudflare.com/pages/get-started/direct-upload/
+
+## Clothing caption references
+
+The owner reviewed and approved the exact caption wording before publication. Charles&M and Thread King captions are editorial appreciations of contemporary Ivorian and Nigerian design, based on the owner's maker identifications; the caftan caption reflects the owner-provided West African style and Kigali provenance. These do not assign historic ceremonial symbolism to the individual designs.
+
+- Áo dài: Vietnam National Authority of Tourism — https://vietnam.travel/node/1216
+- Latvian veste: Latvian Cultural Canon, folk costume — https://kulturaskanons.lv/archive/tautasterps/ (the cultural significance applies to the wider folk-dress tradition); dictionary name — https://tezaurs.lv/veste%3A1
+- Charles&M: owner-supplied designer page — https://www.facebook.com/CharlesEtMode
+- Sarong: Sri Lankan clothing retailer Lakpura — https://www.lakpura.com/pages/sarongs
+- Banja koto: Nieuwe Instituut, Maroon clothing traditions — https://nieuweinstituut.nl/en/projects/soengoe-kondre/amoiloeloe-aseisente-pangi/ ; the exact garment name appears in the Guyaba section, printed page 52, of the community consultation report — https://www.nikos.sr/wp-content/uploads/2021/02/Draft-Report-on-Community-Planning-and-Consultation-SSDI.pdf
+- Kente: UNESCO, craftsmanship of traditional woven textile Kente — https://ich.unesco.org/en/Decisions/19.COM/7.b.38 (documents the Ghanaian tradition; Côte d’Ivoire is the owner's identification for this photograph, not a claim about the location of UNESCO's inscription).
+- Gho: Bhutan Department of Tourism — https://bhutan.travel/journal/editorial/cultural-fabric
+
+These links document the writing; no third-party resource is downloaded by the gallery.

diff --git a/README.md b/README.md
@@ -8,7 +8,7 @@ A static, two-page personal website. No framework, package install, backend, or 
 - Music and Boys Like Us Season 2 sit together in the welcome section, side by side on desktop and stacked on mobile.
 - The film still opens a dialog with project details and the three supplied production photographs.
 - The story timeline, travel map, progressively loaded travel gallery, music player, and contact links remain.
-- Cultural appreciation appears directly above the postcards, preserving all nine photographs from the original “Call me cultural connoisseur” section in their original order. The photographs open in the shared viewer and have local HTML fallbacks.
+- “Dressed for the journey.” appears directly above the postcards with garment names, places, and the owner-approved captions about cultural significance, preserving all nine photographs from the original “Call me cultural connoisseur” section in their original order. The photographs open in the shared viewer and have local HTML fallbacks.
 - A small, image-free “Not safe for work photos” card appears after the travel section. The Photos navigation item leads to it.
 - The card opens an explicit 18+ content warning. Approval navigates to `bodypositive.html` on the same website, not back to the former website.
 - The separate gallery references the 19 images on the original Body Positive page, preserving available shoot dates and photographer credits. No unprovided dates or photographer names were added.
@@ -32,7 +32,7 @@ All images are bundled locally and organized by the part of the site that uses t
 ```text
 assets/
   bodypositive/  Gallery photographs, named by session and photo number
-  culture/       Nine cultural-appreciation photographs from the original site
+  culture/       Nine clothing photographs in “Dressed for the journey.”
   postcards/     Travel photographs named by destination, plus travel-map.png
   movie/         Boys Like Us production photographs and small thumbnails
   music/         Release artwork
@@ -68,7 +68,7 @@ This is a **viewing-consent warning, not password protection or verified age che
 
 ## Editing
 
-- `site-config.js`: profile, songs/platform links, timeline, cultural-appreciation and travel collections, film details, and contact information.
+- `site-config.js`: profile, songs/platform links, timeline, clothing and travel collections, film details, and contact information.
 - `bodypositive-data.js`: the separate photography collection, groups, dates, photographer credits, and accessible image descriptions.
 - `index.html`: homepage markup and content-warning text.
 - `bodypositive.html`: gallery entry page and the matching warning text. Keep the two warnings consistent when editing.
